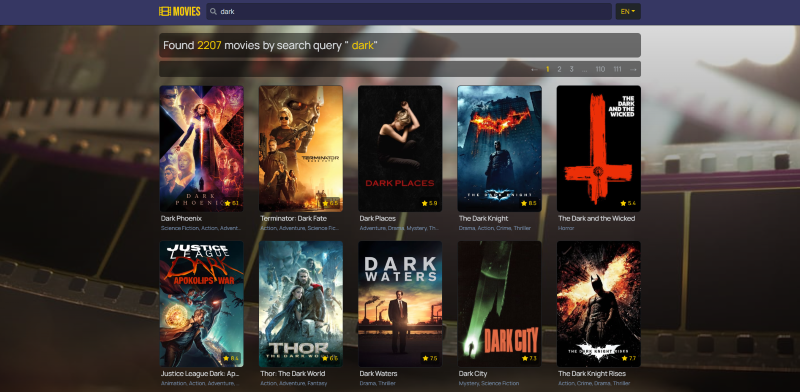
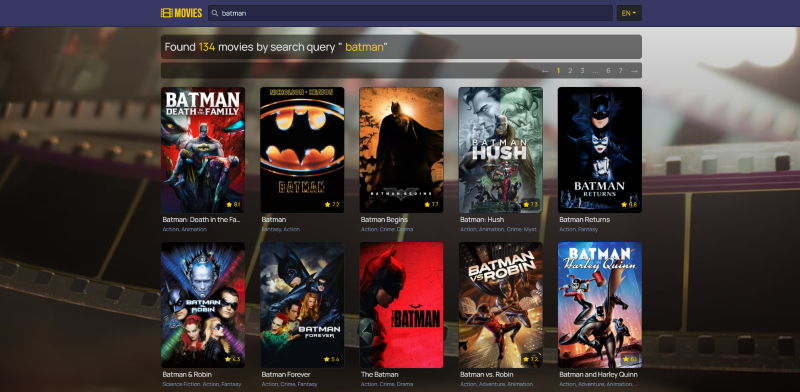
Change some existing README screens, add localization screens.

diff --git a/README.md b/README.md
@@ -40,6 +40,8 @@ Application features:
 <img src="src/assets/img/screens/screen_5.png">
     
 - 🎥 localization is supported: EN (english) and RU (russian) languages are available. With locale changing also changes movie displayed data (in relation with selected language): title, tagline, description, poster, videos.
+<img src="src/assets/img/screens/screen_6.png">
+<img src="src/assets/img/screens/screen_7.png">
 
 ## Technology stack
 
